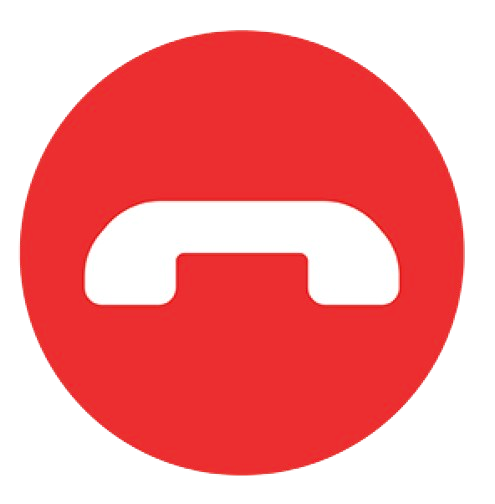
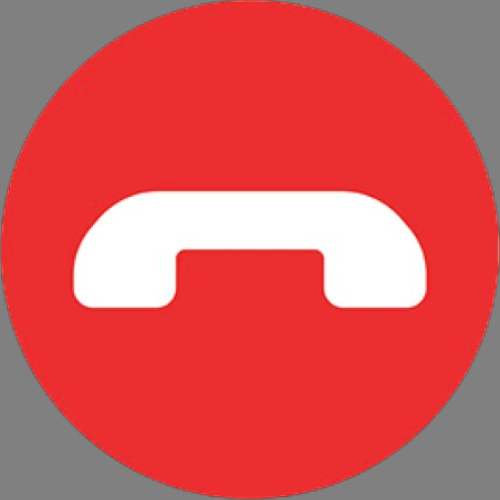
電話マーク丸くした

diff --git a/src/app/talk/page.tsx b/src/app/talk/page.tsx
@@ -377,9 +377,25 @@ function TalkContent() {
             {isMuted ? <svg xmlns="http://www.w3.org/2000/svg" width="28" height="28" viewBox="0 0 24 24" fill="none" stroke="currentColor" strokeWidth="2" strokeLinecap="round" strokeLinejoin="round"><line x1="1" y1="1" x2="23" y2="23"></line><path d="M9 9v3a3 3 0 0 0 5.12 2.12M15 9.34V4a3 3 0 0 0-5.94-.6"></path><path d="M17 16.95A7 7 0 0 1 5 12v-2m14 0v2a7 7 0 0 1-.11 1.23"></path><line x1="12" y1="19" x2="12" y2="23"></line><line x1="8" y1="23" x2="16" y2="23"></line></svg> : <svg xmlns="http://www.w3.org/2000/svg" width="28" height="28" viewBox="0 0 24 24" fill="none" stroke="currentColor" strokeWidth="2" strokeLinecap="round" strokeLinejoin="round"><path d="M12 1a3 3 0 0 0-3 3v8a3 3 0 0 0 6 0V4a3 3 0 0 0-3-3z"></path><path d="M19 10v2a7 7 0 0 1-14 0v-2"></path><line x1="12" y1="19" x2="12" y2="23"></line><line x1="8" y1="23" x2="16" y2="23"></line></svg>}
           </button>
         )}
-        <button onClick={toggleConnection} disabled={isConnecting} className={`w-24 h-24 rounded-full flex items-center justify-center transition-all duration-300 ease-in-out transform ${isConnecting ? 'opacity-50 cursor-wait scale-95' : 'hover:scale-110 active:scale-95 drop-shadow-2xl'}`}>
-           <Image src={isConnected ? CALL_IMAGES.END : CALL_IMAGES.START} alt={isConnected ? "End Call" : "Start Call"} width={100} height={100} className="w-full h-full object-contain" priority />
-        </button>
+        <div 
+          onClick={!isConnecting ? toggleConnection : undefined} 
+          className={`
+            w-24 h-24 rounded-full flex items-center justify-center 
+            cursor-pointer select-none /* ← ボタンっぽく振る舞わせる */
+            transition-all duration-300 ease-in-out transform overflow-hidden
+            ${isConnecting ? 'opacity-50 cursor-wait scale-95' : 'hover:scale-110 active:scale-95 drop-shadow-2xl'}
+          `}
+        >
+           <Image 
+             src={isConnected ? CALL_IMAGES.END : CALL_IMAGES.START} 
+             alt={isConnected ? "End Call" : "Start Call"} 
+             width={100} 
+             height={100} 
+             /* 画像自体も拡大して枠いっぱいに広げる */
+             className="w-full h-full object-cover scale-110 pointer-events-none" 
+             priority 
+           />
+        </div>
         {isConnected && <div className="w-16" />} 
       </div>
 
